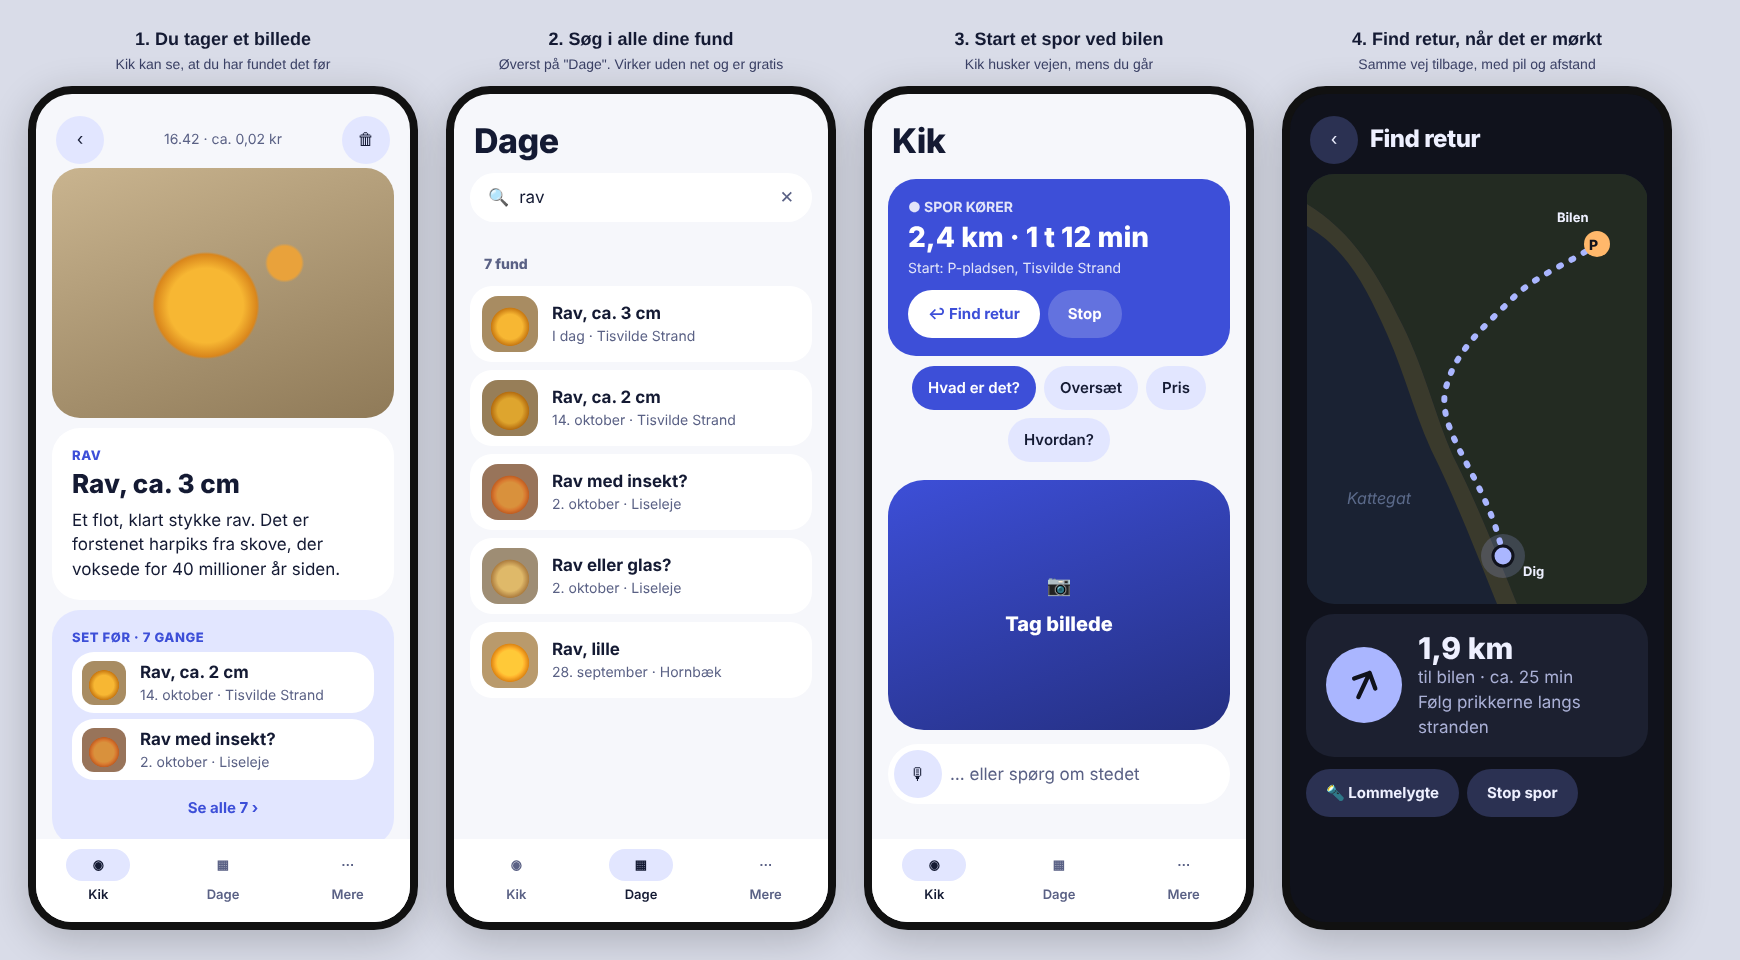
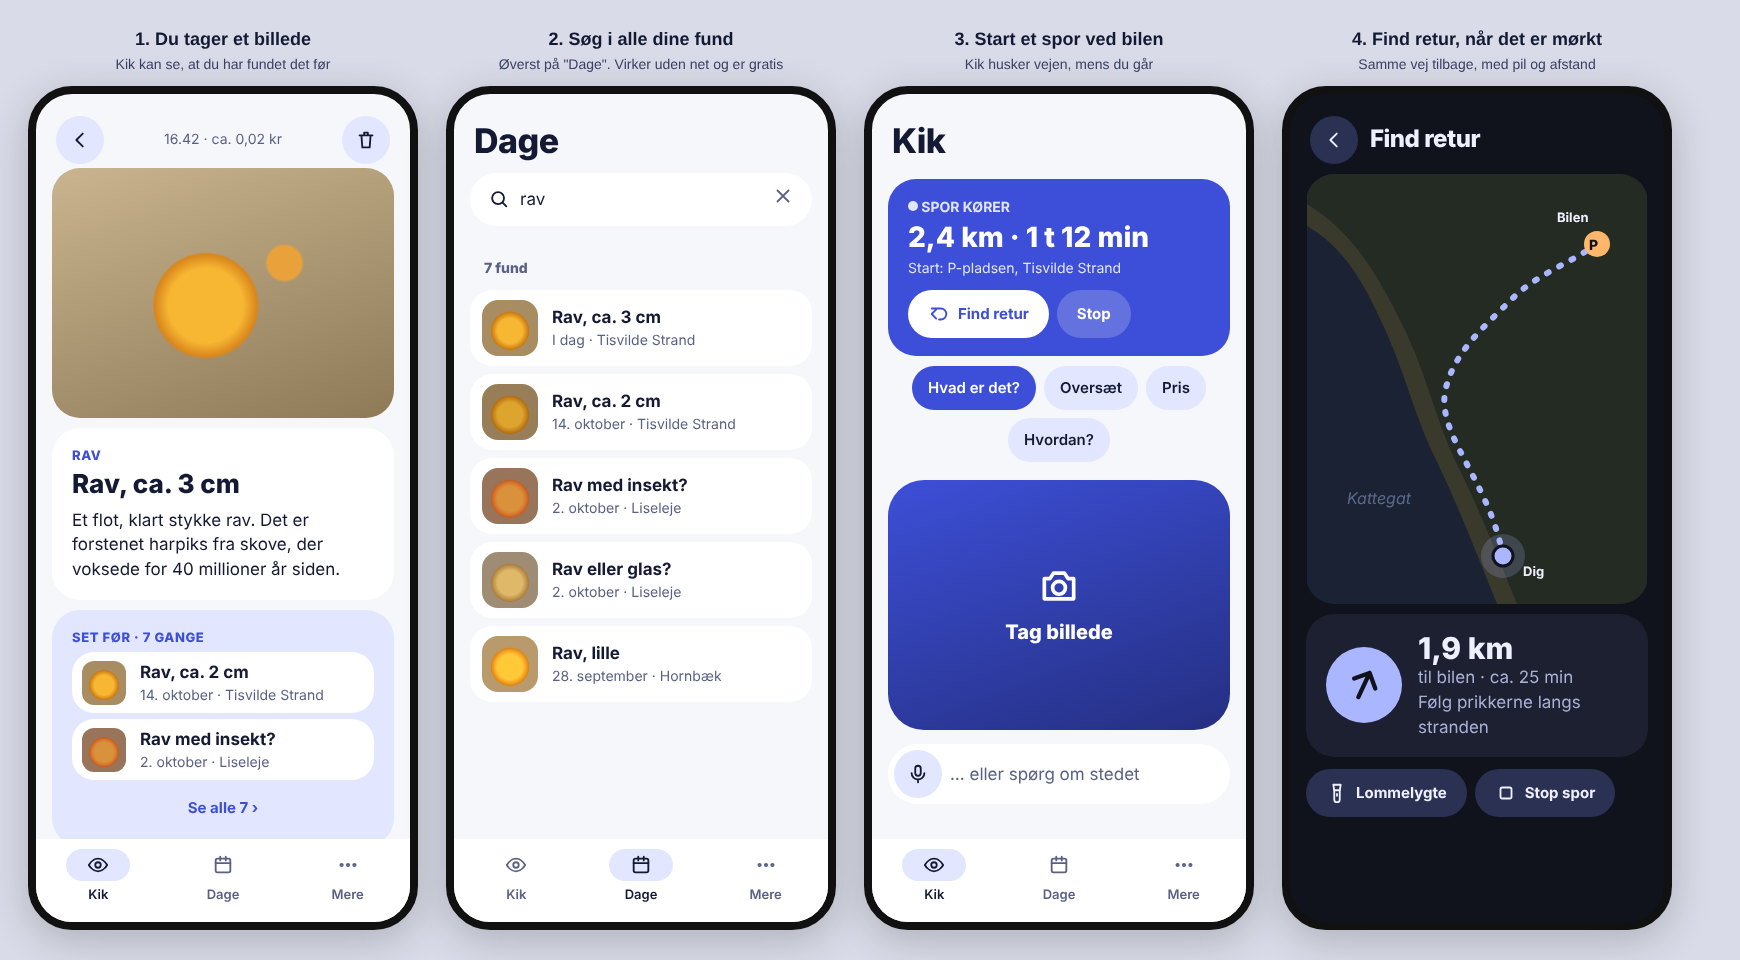
Udkast med streg-ikoner i lys og mørk; Dagbogs arbejdsregler i CLAUDE.md
Claude-Session: https://claude.ai/code/session_019cyCJ1cJWiwkx1ptpZJ9TC

diff --git a/docs/forslag-set-foer-og-retur.html b/docs/forslag-set-foer-og-retur.html
@@ -26,7 +26,11 @@ body{background:#d9dce8;margin:0;padding:28px;font-family:Roboto,system-ui,sans-
 .track{background:var(--pri);color:var(--pri-on)}
 .track .big{font-size:28px;font-weight:800}
 .track .btn.tonal{background:#fff3;color:var(--pri-on)}
-.track .btn.white{background:#fff;color:#3d4fd8}
+.track .btn.white{background:var(--pri-on);color:var(--pri)}
+.night{--bg:#10121c;--card:#1c2030;--ton:#2b3152;--on:#eef0ff;--mut:#aab0d6;--pri:#aab6ff;--pri-on:#10121c}
+.rec{display:inline-block;width:10px;height:10px;border-radius:5px;background:currentColor;vertical-align:1px}
+.search i,.btn i,.round i,.pill i{display:inline-flex}
+[data-theme=dark] body{background:#05060a}[data-theme=dark] .cap{color:#eef0ff}[data-theme=dark] .cap small{color:#aab0d6}
 .map{height:430px;border-radius:28px;overflow:hidden;margin:6px 0 10px}
 .arrowcard{display:flex;align-items:center;gap:16px}
 .arrowcard .big{font-size:30px;font-weight:800;line-height:1.1}
@@ -37,7 +41,7 @@ body{background:#d9dce8;margin:0;padding:28px;font-family:Roboto,system-ui,sans-
 <!-- 1: Fund med "Set før" -->
 <div class="col"><div class="cap">1. Du tager et billede<small>Kik kan se, at du har fundet det før</small></div>
 <div class="phone"><main class="page">
- <header class="top"><button class="round">‹</button><span class="muted small">16.42 · ca. 0,02 kr</span><button class="round">🗑</button></header>
+ <header class="top"><button class="round"><i data-i="back"></i></button><span class="muted small">16.42 · ca. 0,02 kr</span><button class="round"><i data-i="trash"></i></button></header>
  <div class="photo"></div>
  <article class="card answer"><div class="kicker">Rav</div><h2>Rav, ca. 3 cm</h2><p class="pre">Et flot, klart stykke rav. Det er forstenet harpiks fra skove, der voksede for 40 millioner år siden.</p></article>
  <section class="card seen"><div class="kick">Set før · 7 gange</div>
@@ -45,40 +49,40 @@ body{background:#d9dce8;margin:0;padding:28px;font-family:Roboto,system-ui,sans-
   <a class="row"><span class="thumb amber" style="filter:hue-rotate(-15deg) brightness(.85)"></span><span class="grow"><b>Rav med insekt?</b><span>2. oktober · Liseleje</span></span></a>
   <div class="center" style="margin-top:8px"><span class="btn text small">Se alle 7 ›</span></div>
  </section>
-</main><nav class="tabbar"><a class="on"><span class="pill">◉</span>Kik</a><a><span class="pill">▦</span>Dage</a><a><span class="pill">⋯</span>Mere</a></nav></div></div>
+</main><nav class="tabbar"><a class="on"><span class="pill"><i data-i="eye"></i></span>Kik</a><a><span class="pill"><i data-i="days"></i></span>Dage</a><a><span class="pill"><i data-i="more"></i></span>Mere</a></nav></div></div>
 
 <!-- 2: Søg i fund -->
 <div class="col"><div class="cap">2. Søg i alle dine fund<small>Øverst på "Dage". Virker uden net og er gratis</small></div>
 <div class="phone"><main class="page">
  <header class="top"><h1>Dage</h1></header>
- <div class="search"><span>🔍</span><span class="grow">rav</span><span class="muted">✕</span></div>
+ <div class="search"><i data-i="search"></i><span class="grow">rav</span><span class="muted"><i data-i="close"></i></span></div>
  <div class="sec">7 fund</div>
  <a class="row"><span class="thumb amber"></span><span class="grow"><b>Rav, ca. 3 cm</b><span>I dag · Tisvilde Strand</span></span></a>
  <a class="row"><span class="thumb amber" style="filter:brightness(.9)"></span><span class="grow"><b>Rav, ca. 2 cm</b><span>14. oktober · Tisvilde Strand</span></span></a>
  <a class="row"><span class="thumb amber" style="filter:hue-rotate(-15deg) brightness(.85)"></span><span class="grow"><b>Rav med insekt?</b><span>2. oktober · Liseleje</span></span></a>
  <a class="row"><span class="thumb amber" style="filter:saturate(.6)"></span><span class="grow"><b>Rav eller glas?</b><span>2. oktober · Liseleje</span></span></a>
  <a class="row"><span class="thumb amber" style="filter:brightness(1.1)"></span><span class="grow"><b>Rav, lille</b><span>28. september · Hornbæk</span></span></a>
-</main><nav class="tabbar"><a><span class="pill">◉</span>Kik</a><a class="on"><span class="pill">▦</span>Dage</a><a><span class="pill">⋯</span>Mere</a></nav></div></div>
+</main><nav class="tabbar"><a><span class="pill"><i data-i="eye"></i></span>Kik</a><a class="on"><span class="pill"><i data-i="days"></i></span>Dage</a><a><span class="pill"><i data-i="more"></i></span>Mere</a></nav></div></div>
 
 <!-- 3: Spor kører -->
 <div class="col"><div class="cap">3. Start et spor ved bilen<small>Kik husker vejen, mens du går</small></div>
 <div class="phone"><main class="page">
  <header class="top"><h1>Kik</h1></header>
  <section class="card track">
-  <div class="small" style="opacity:.85;font-weight:700">● SPOR KØRER</div>
+  <div class="small" style="opacity:.85;font-weight:700"><span class="rec"></span> SPOR KØRER</div>
   <div class="big">2,4 km · 1 t 12 min</div>
   <div class="small" style="opacity:.85">Start: P-pladsen, Tisvilde Strand</div>
-  <div class="actions" style="margin-bottom:0"><span class="btn white">↩ Find retur</span><span class="btn tonal">Stop</span></div>
+  <div class="actions" style="margin-bottom:0"><span class="btn white"><i data-i="retur"></i> Find retur</span><span class="btn tonal">Stop</span></div>
  </section>
  <div class="chips"><button class="chip on">Hvad er det?</button><button class="chip">Oversæt</button><button class="chip">Pris</button><button class="chip">Hvordan?</button></div>
- <button class="shoot" style="max-height:250px">📷<span>Tag billede</span></button>
- <div class="askbar"><span class="round">🎙</span><span class="muted">… eller spørg om stedet</span></div>
-</main><nav class="tabbar"><a class="on"><span class="pill">◉</span>Kik</a><a><span class="pill">▦</span>Dage</a><a><span class="pill">⋯</span>Mere</a></nav></div></div>
+ <button class="shoot" style="max-height:250px"><i data-i="camera" data-s="44"></i><span>Tag billede</span></button>
+ <div class="askbar"><span class="round"><i data-i="mic"></i></span><span class="muted">… eller spørg om stedet</span></div>
+</main><nav class="tabbar"><a class="on"><span class="pill"><i data-i="eye"></i></span>Kik</a><a><span class="pill"><i data-i="days"></i></span>Dage</a><a><span class="pill"><i data-i="more"></i></span>Mere</a></nav></div></div>
 
 <!-- 4: Find retur (mørk) -->
 <div class="col"><div class="cap">4. Find retur, når det er mørkt<small>Samme vej tilbage, med pil og afstand</small></div>
-<div class="phone" data-dark style="--bg:#10121c;--card:#1c2030;--ton:#2b3152;--on:#eef0ff;--mut:#aab0d6;--pri:#aab6ff;--pri-on:#10121c"><main class="page">
- <header class="top"><button class="round">‹</button><h1 class="h-small grow">Find retur</h1></header>
+<div class="phone night"><main class="page">
+ <header class="top"><button class="round"><i data-i="back"></i></button><h1 class="h-small grow">Find retur</h1></header>
  <div class="map"><svg viewBox="0 0 340 430" width="100%" height="100%">
   <rect width="340" height="430" fill="#1a2233"/>
   <path d="M0 0H340V430H210C190 380 170 330 150 290C130 250 120 200 95 150C75 110 50 60 0 30Z" fill="#232b22"/>
@@ -92,7 +96,11 @@ body{background:#d9dce8;margin:0;padding:28px;font-family:Roboto,system-ui,sans-
  </svg></div>
  <section class="card arrowcard"><span class="ring"><svg width="40" height="40" viewBox="0 0 24 24" fill="none" stroke="currentColor" stroke-width="2.6" stroke-linecap="round" stroke-linejoin="round" style="transform:rotate(25deg)"><path d="M12 20V4M5 11l7-7 7 7"/></svg></span>
   <span class="grow"><span class="big">1,9 km</span><br><span class="muted">til bilen · ca. 25 min<br>Følg prikkerne langs stranden</span></span></section>
- <div class="actions"><span class="btn tonal">🔦 Lommelygte</span><span class="btn tonal">Stop spor</span></div>
+ <div class="actions"><span class="btn tonal"><i data-i="light"></i> Lommelygte</span><span class="btn tonal"><i data-i="stop"></i> Stop spor</span></div>
 </main></div></div>
 
-</div></body></html>
+</div><script>
+const P={camera:'<path d="M4 8h3l2-3h6l2 3h3v11H4z"/><circle cx="12" cy="13" r="3.5"/>',mic:'<rect x="9" y="3" width="6" height="11" rx="3"/><path d="M5 11a7 7 0 0 0 14 0M12 18v3"/>',back:'<path d="M15 5l-7 7 7 7"/>',trash:'<path d="M5 7h14M10 7V4h4v3M7 7l1 13h8l1-13"/>',eye:'<path d="M2 12s4-7 10-7 10 7 10 7-4 7-10 7S2 12 2 12z"/><circle cx="12" cy="12" r="3"/>',days:'<rect x="4" y="5" width="16" height="15" rx="2"/><path d="M4 10h16M9 3v4M15 3v4"/>',more:'<circle cx="5" cy="12" r="1.3"/><circle cx="12" cy="12" r="1.3"/><circle cx="19" cy="12" r="1.3"/>',stop:'<rect x="6" y="6" width="12" height="12" rx="2"/>',search:'<circle cx="11" cy="11" r="6.5"/><path d="M16 16l4 4"/>',close:'<path d="M6 6l12 12M18 6L6 18"/>',retur:'<path d="M9 7L4 12l5 5"/><path d="M4 12h10a6 6 0 0 1 0 12h-2" transform="translate(0 -6)"/>',light:'<path d="M8 3h8l-1 6H9z"/><path d="M9 9v10a3 3 0 0 0 6 0V9M12 13v2"/>'};
+document.querySelectorAll('i[data-i]').forEach(e=>{const s=e.dataset.s||22;e.outerHTML='<svg width="'+s+'" height="'+s+'" viewBox="0 0 24 24" fill="none" stroke="currentColor" stroke-width="2" stroke-linecap="round" stroke-linejoin="round">'+P[e.dataset.i]+'</svg>'});
+if(location.hash==='#dark')document.documentElement.dataset.theme='dark';
+</script></body></html>

diff --git a/CLAUDE.md b/CLAUDE.md
@@ -32,7 +32,7 @@ Kik er en guide i lommen (PWA) til eget brug: https://pbo-dot.github.io/kik/. Pe
 - Endnu ikke prøvet på telefonen: ægte Claude-svar på rigtige billeder (kvalitet og pris pr. billede), kamera, sted, tale, dansk oplæsning og Del → Dagbog.
 - Skitsen, som første udgave er bygget efter: `docs/forslag-kig.png`.
 - Rettet: afbrudte svar (`fixInterrupted` ved start), "Prøv igen" for spørgsmål uden billede, autooplæsning kun af nye svar.
-- Til godkendelse (ikke bygget): `docs/forslag-set-foer-og-retur.png`.
+- Til godkendelse (ikke bygget): `docs/forslag-set-foer-og-retur.png` og `-mork.png` (kilde: `.html`).
   - **Har jeg set den før?**: "Set før · N gange" under svaret (match på navn, kun på telefonen) og søgefelt øverst på Dage.
   - **Find retur** (til ravjagt, hjem i mørke): "Start spor" ved bilen, `watchPosition` + Wake Lock mens Kik er åben, kort med OpenStreetMap/Leaflet, pil og afstand til start, lommelygte-knap. Ærligt: browseren sporer ikke med slukket skærm; huller tegnes som lige streger, pilen til start virker altid.
 
@@ -54,7 +54,10 @@ Kik er en guide i lommen (PWA) til eget brug: https://pbo-dot.github.io/kik/. Pe
 
 - Skriv på dansk, kort og i almindeligt sprog. Ejeren er ikke programmør.
 - Nye funktioner drøftes og godkendes (gerne med et billede først), før de bygges. Fejlrettelser må laves med det samme.
-- Undersøg kendte løsninger, før noget nyt og ukendt bygges, og vælg den mest gennemprøvede med åben licens.
+- **Nye, ukendte funktioner:** Skriv ikke fra bunden først. Undersøg kendte løsninger (open source på GitHub, velholdte biblioteker, officiel dokumentation), sammenlign kort 2–3 fremgangsmåder i forslaget, og vælg den mest gennemprøvede. Kun åben licens, og hold appen let.
+- **Forslag undervejs:** Kom løbende med korte forslag, når noget gentager sig, kan gå galt eller kan gøres nemmere. Giv en anbefaling og en rækkefølge. Bygges først efter ejerens ja (fejlrettelser dog med det samme).
+- **Gennemgang en gang imellem:** Når ejeren beder om det, så tag en rundtur i hele appen med friske skærmbilleder og giv en ærlig vurdering og 3–5 forslag i anbefalet rækkefølge.
+- Ejerens design- og arbejdsregler er fælles for alle ejerens apps; Dagbogs CLAUDE.md (pbo-dot/dagbog) er forbilledet.
 - Sig til med link, når en ændring er ude, og vær ærlig om, hvad der kun kan testes på telefonen (kamera, sted, tale, oplæsning, deling).
 
 ## Design (top-design anno 2026)
@@ -64,6 +67,8 @@ Kik er en guide i lommen (PWA) til eget brug: https://pbo-dot.github.io/kik/. Pe
 - Store trykflader (mindst 44–48 px), runde knapper: fyldt, tonal og tekst.
 - Kort uden kanter, store runde hjørner, god luft, ensartede streg-ikoner (`Icon` i `src/ui.tsx`).
 - Korte tekster. Bløde overgange, og respektér "reducer bevægelse".
+- Ingen emojis som ikoner, heller ikke i udkast.
+- Vis altid et visuelt forslag i både lys og mørk tilstand (`docs/forslag-*.png`), før nye skærme eller større ændringer bygges.
 
 ## Senere (idéer, ikke bygget)
 
